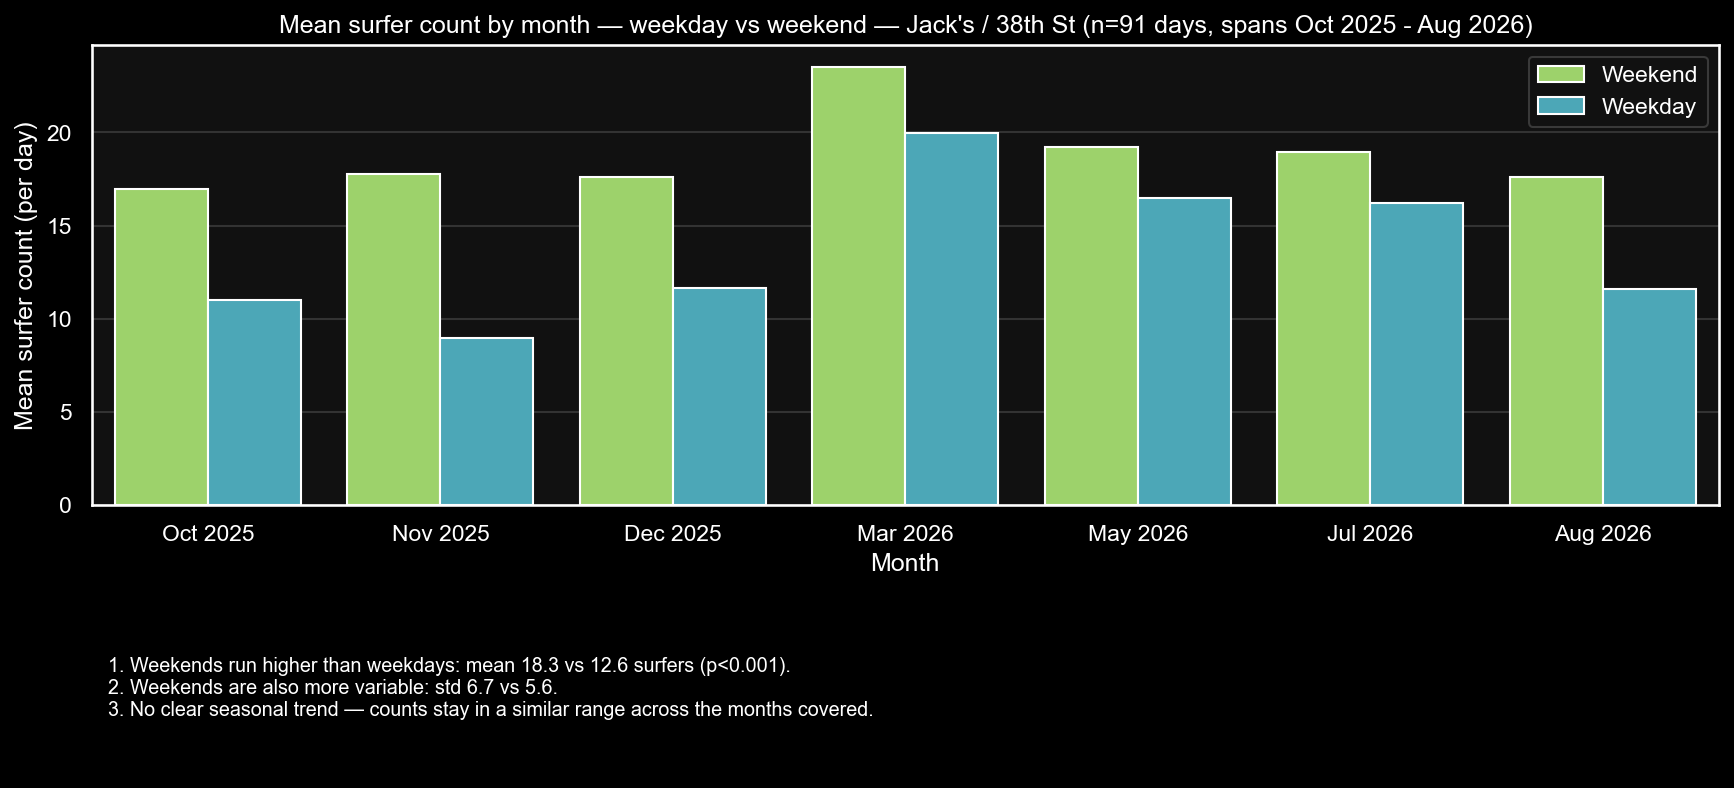
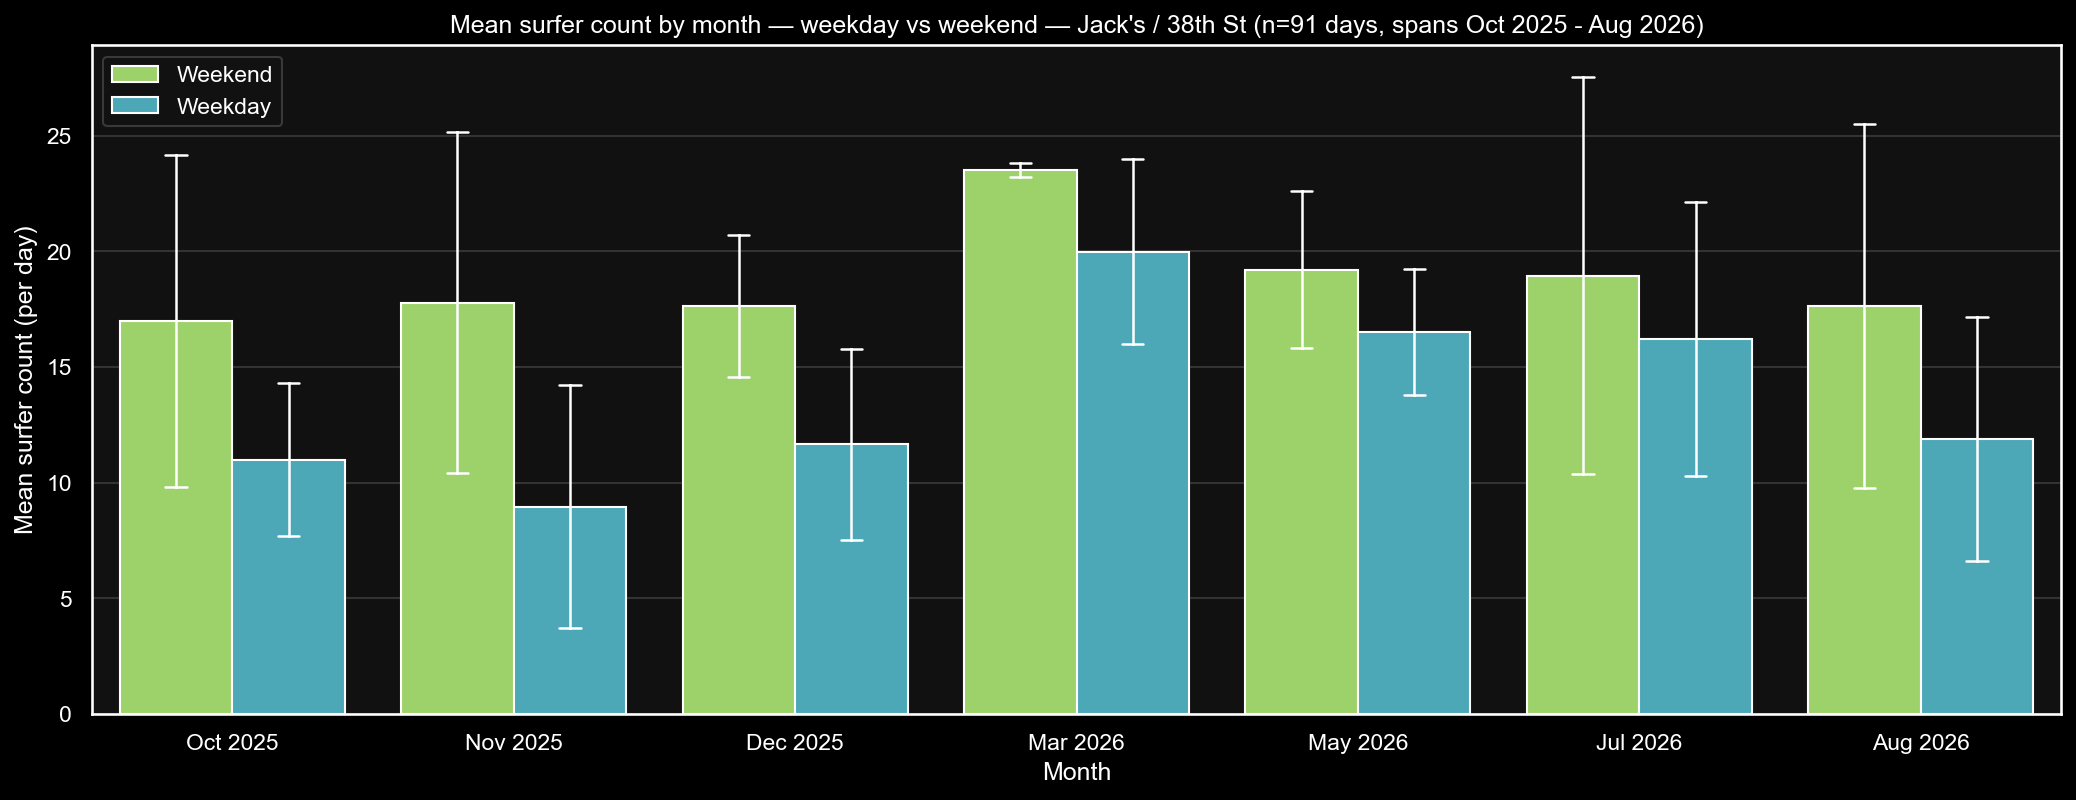
Move chart interp text into README prose; add per-month weekend ratio finding; std-dev error bars
Charts no longer bake interpretation bullets into the PNG -- that text
now lives in README.md under two new subsections (Weekday vs. Weekend /
Daily Mean Count Kernel Density Estimate (KDE)). Replaced the old "no
clear seasonal trend" bullet with a real per-month weekend-to-weekday
ratio finding (1.16x-1.98x range, computed directly per calendar month).
Monthly bar chart now shows std-dev error bars per bar.

Claude-Session: https://claude.ai/code/session_01C2GCpQELsJRUSZjSZDcA3i

diff --git a/analysis/weekday_weekend_patterns/plot_daily_counts.py b/analysis/weekday_weekend_patterns/plot_daily_counts.py
@@ -40,15 +40,14 @@ we = daily.loc[daily["is_weekend"], "mean_count"]
 
 OUT_DIR = HERE
 
-# --- Chart 1: monthly bar chart ---
-fig1 = plt.figure(figsize=(14, 6.3), facecolor="black")
-gs1 = fig1.add_gridspec(2, 1, height_ratios=[3, 0.8], hspace=0.5)
-ax1 = fig1.add_subplot(gs1[0]); ax1.set_facecolor("#111111")
-ax_text1 = fig1.add_subplot(gs1[1]); ax_text1.axis("off")
+# --- Chart 1: monthly bar chart, std-dev error bars (within-month spread) ---
+fig1, ax1 = plt.subplots(figsize=(14, 5.5), facecolor="black")
+ax1.set_facecolor("#111111")
 
 sns.barplot(
     data=daily, x="month", y="mean_count", hue="Day type", order=month_order,
-    palette={"Weekday": WEEKDAY_COLOR, "Weekend": WEEKEND_COLOR}, errorbar=None, ax=ax1,
+    palette={"Weekday": WEEKDAY_COLOR, "Weekend": WEEKEND_COLOR},
+    errorbar="sd", capsize=0.15, err_kws={"color": "white", "linewidth": 1.2}, ax=ax1,
 )
 ax1.set_xlabel("Month")
 ax1.set_ylabel("Mean surfer count (per day)")
@@ -57,22 +56,13 @@ legend1 = ax1.legend(title=None, facecolor="#111111", edgecolor="#444444")
 for text in legend1.get_texts():
     text.set_color("white")
 
-bar_interp = (
-    f"1. Weekends run higher than weekdays: mean {we.mean():.1f} vs {wd.mean():.1f} surfers (p<0.001).\n"
-    f"2. Weekends are also more variable: std {we.std():.1f} vs {wd.std():.1f}.\n"
-    f"3. No clear seasonal trend — counts stay in a similar range across the months covered."
-)
-ax_text1.text(0.01, 0.95, bar_interp, wrap=True, fontsize=9.5, va="top", ha="left",
-              color="white", transform=ax_text1.transAxes)
-
+fig1.tight_layout()
 fig1.savefig(f"{OUT_DIR}/weekday_weekend_by_month_2026-08-28.png", dpi=150, facecolor="black", bbox_inches="tight")
 print("saved", f"{OUT_DIR}/weekday_weekend_by_month_2026-08-28.png")
 
 # --- Chart 2: KDE distribution ---
-fig2 = plt.figure(figsize=(14, 6.3), facecolor="black")
-gs2 = fig2.add_gridspec(2, 1, height_ratios=[3, 0.8], hspace=0.5)
-ax2 = fig2.add_subplot(gs2[0]); ax2.set_facecolor("#111111")
-ax_text2 = fig2.add_subplot(gs2[1]); ax_text2.axis("off")
+fig2, ax2 = plt.subplots(figsize=(14, 5.5), facecolor="black")
+ax2.set_facecolor("#111111")
 
 sns.kdeplot(
     data=daily, x="mean_count", hue="Day type",
@@ -91,13 +81,20 @@ if legend2 is not None:
     for text in legend2.get_texts():
         text.set_color("white")
 
-kde_interp = (
-    f"1. Each curve is normalized to its own group (n={len(wd)} weekdays, n={len(we)} weekends) — the taller weekday peak isn't a sample-size artifact.\n"
-    f"2. Weekday counts cluster closer to their mean (std {wd.std():.1f} vs {we.std():.1f}), giving it a taller, narrower peak.\n"
-    f"3. Weekends span a wider range (min {we.min():.1f} to max {we.max():.1f} vs weekday's {wd.min():.1f} to {wd.max():.1f})."
-)
-ax_text2.text(0.01, 0.95, kde_interp, wrap=True, fontsize=9.5, va="top", ha="left",
-              color="white", transform=ax_text2.transAxes)
-
+fig2.tight_layout()
 fig2.savefig(f"{OUT_DIR}/weekday_weekend_kde_2026-08-28.png", dpi=150, facecolor="black", bbox_inches="tight")
 print("saved", f"{OUT_DIR}/weekday_weekend_kde_2026-08-28.png")
+
+# --- Real numbers for the README prose (not baked into the images anymore) ---
+print("\n=== Overall stats (for README prose) ===")
+print(f"weekday: mean={wd.mean():.1f} std={wd.std():.1f} min={wd.min():.1f} max={wd.max():.1f} n={len(wd)}")
+print(f"weekend: mean={we.mean():.1f} std={we.std():.1f} min={we.min():.1f} max={we.max():.1f} n={len(we)}")
+
+print("\n=== Per-month weekend/weekday ratio (for the new first bullet) ===")
+g = daily.groupby(["year_month", "is_weekend"])["mean_count"].mean().reset_index()
+piv = g.pivot(index="year_month", columns="is_weekend", values="mean_count")
+piv.columns = ["weekday_mean", "weekend_mean"]
+piv["ratio"] = piv["weekend_mean"] / piv["weekday_mean"]
+piv = piv.sort_index()
+print(piv.round(2))
+print(f"ratio range: {piv['ratio'].min():.2f}x to {piv['ratio'].max():.2f}x")

diff --git a/docs/PROJECT_HISTORY.md b/docs/PROJECT_HISTORY.md
@@ -1709,3 +1709,27 @@ than general/possibly-stale knowledge — fetched the real current docs
 
 Updated `prepare_cvat_reimport.py`'s printed next-steps to reflect all
 of this.
+
+### README Exploratory Findings: moved interp text out of the charts, added per-month weekend ratio finding (2026-09-07)
+
+Reworked the weekday/weekend charts and their README section:
+
+- `analysis/weekday_weekend_patterns/plot_daily_counts.py` no longer
+  bakes interpretation bullets into the PNGs (removed the separate
+  gridspec text-panel below each chart) — that text now lives as real
+  prose in README.md instead, split into two `####` subsections
+  ("Weekday vs. Weekend" and "Daily Mean Count Kernel Density Estimate
+  (KDE)") under the existing "Exploratory Findings" section.
+- Monthly bar chart now shows std-dev error bars per bar (`errorbar="sd"`
+  in `sns.barplot`), making within-month weekday/weekend spread visible
+  directly on the chart rather than only in prose.
+- New first bullet, replacing the old "no clear seasonal trend" one:
+  the weekend-to-weekday ratio varies by month — computed real per-month
+  ratios directly (`weekend_mean / weekday_mean` per calendar month):
+  Oct 2025 1.55x, Nov 2025 1.98x, Dec 2025 1.51x, Mar 2026 1.18x, May
+  2026 1.16x, Jul 2026 1.17x, Aug 2026 1.48x. Genuine range 1.16x-1.98x,
+  not a flat effect — some months show a much more pronounced weekend
+  effect than others. Flagged that several calendar months are still
+  completely unrepresented (see the 2026-08-30 training-data-gap
+  findings above), so whether this pattern holds needs more months of
+  data before treating it as settled.

diff --git a/README.md b/README.md
@@ -114,7 +114,28 @@ Tide and weekend/weekday are the two strongest predictors of surfer count
 at this spot (see [`PROJECT_HISTORY.md`](docs/PROJECT_HISTORY.md) for the full
 GBT permutation-importance breakdown). A closer look at the weekend effect:
 
+#### Weekday vs. Weekend
+
+1. The weekend-to-weekday ratio varies noticeably by month — from about
+   1.16-1.18x in March, May, and July 2026 up to nearly 2x in November
+   2025 (also elevated, ~1.5x, in October/December 2025 and August
+   2026). Some months show a much more pronounced weekend effect than
+   others. We'll have to see if the trend holds once we have data from
+   every month — several calendar months are still completely
+   unrepresented in the dataset so far.
+2. Weekends are also more variable day-to-day than weekdays: standard
+   deviation 6.7 vs 5.6 surfers.
+
 ![Mean surfer count by month, weekday vs weekend](analysis/weekday_weekend_patterns/weekday_weekend_by_month_2026-08-28.png)
+
+#### Daily Mean Count Kernel Density Estimate (KDE)
+
+1. Each curve is normalized to its own group (n=61 weekdays, n=31
+   weekends) — the taller weekday peak isn't a sample-size artifact.
+2. Weekday counts cluster closer to their mean (std 5.6 vs 6.7), giving
+   it a taller, narrower peak.
+3. Weekends span a wider range (min 3.8 to max 33.8 vs weekday's 1.5 to
+   28.0).
 
 ![Distribution of daily mean surfer counts, weekday vs weekend KDE](analysis/weekday_weekend_patterns/weekday_weekend_kde_2026-08-28.png)
 
